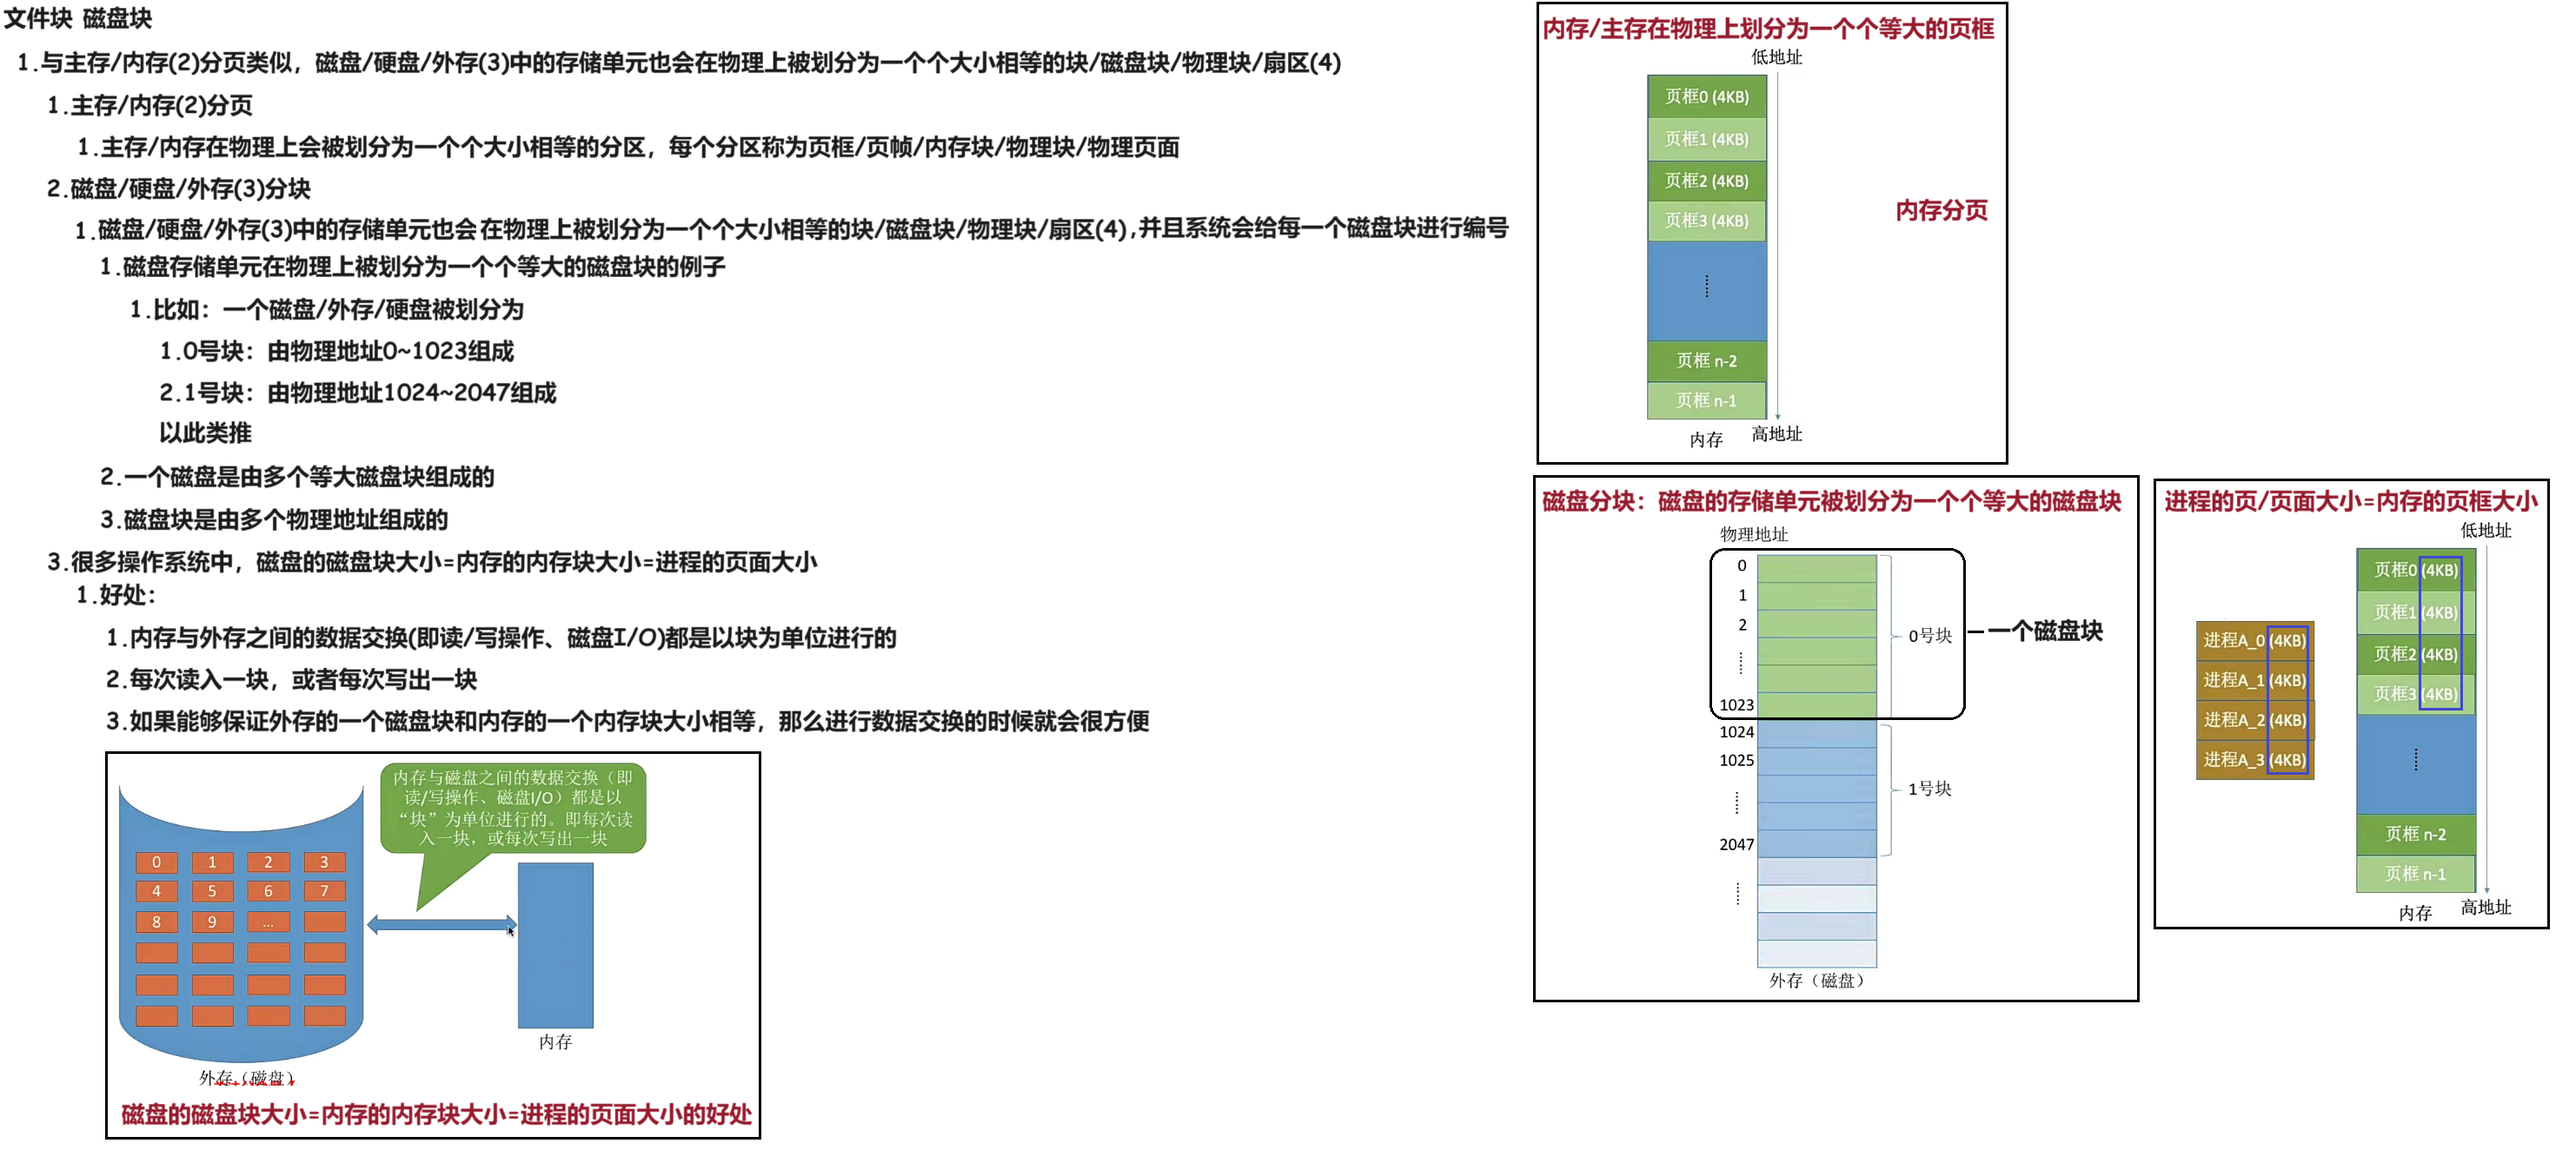
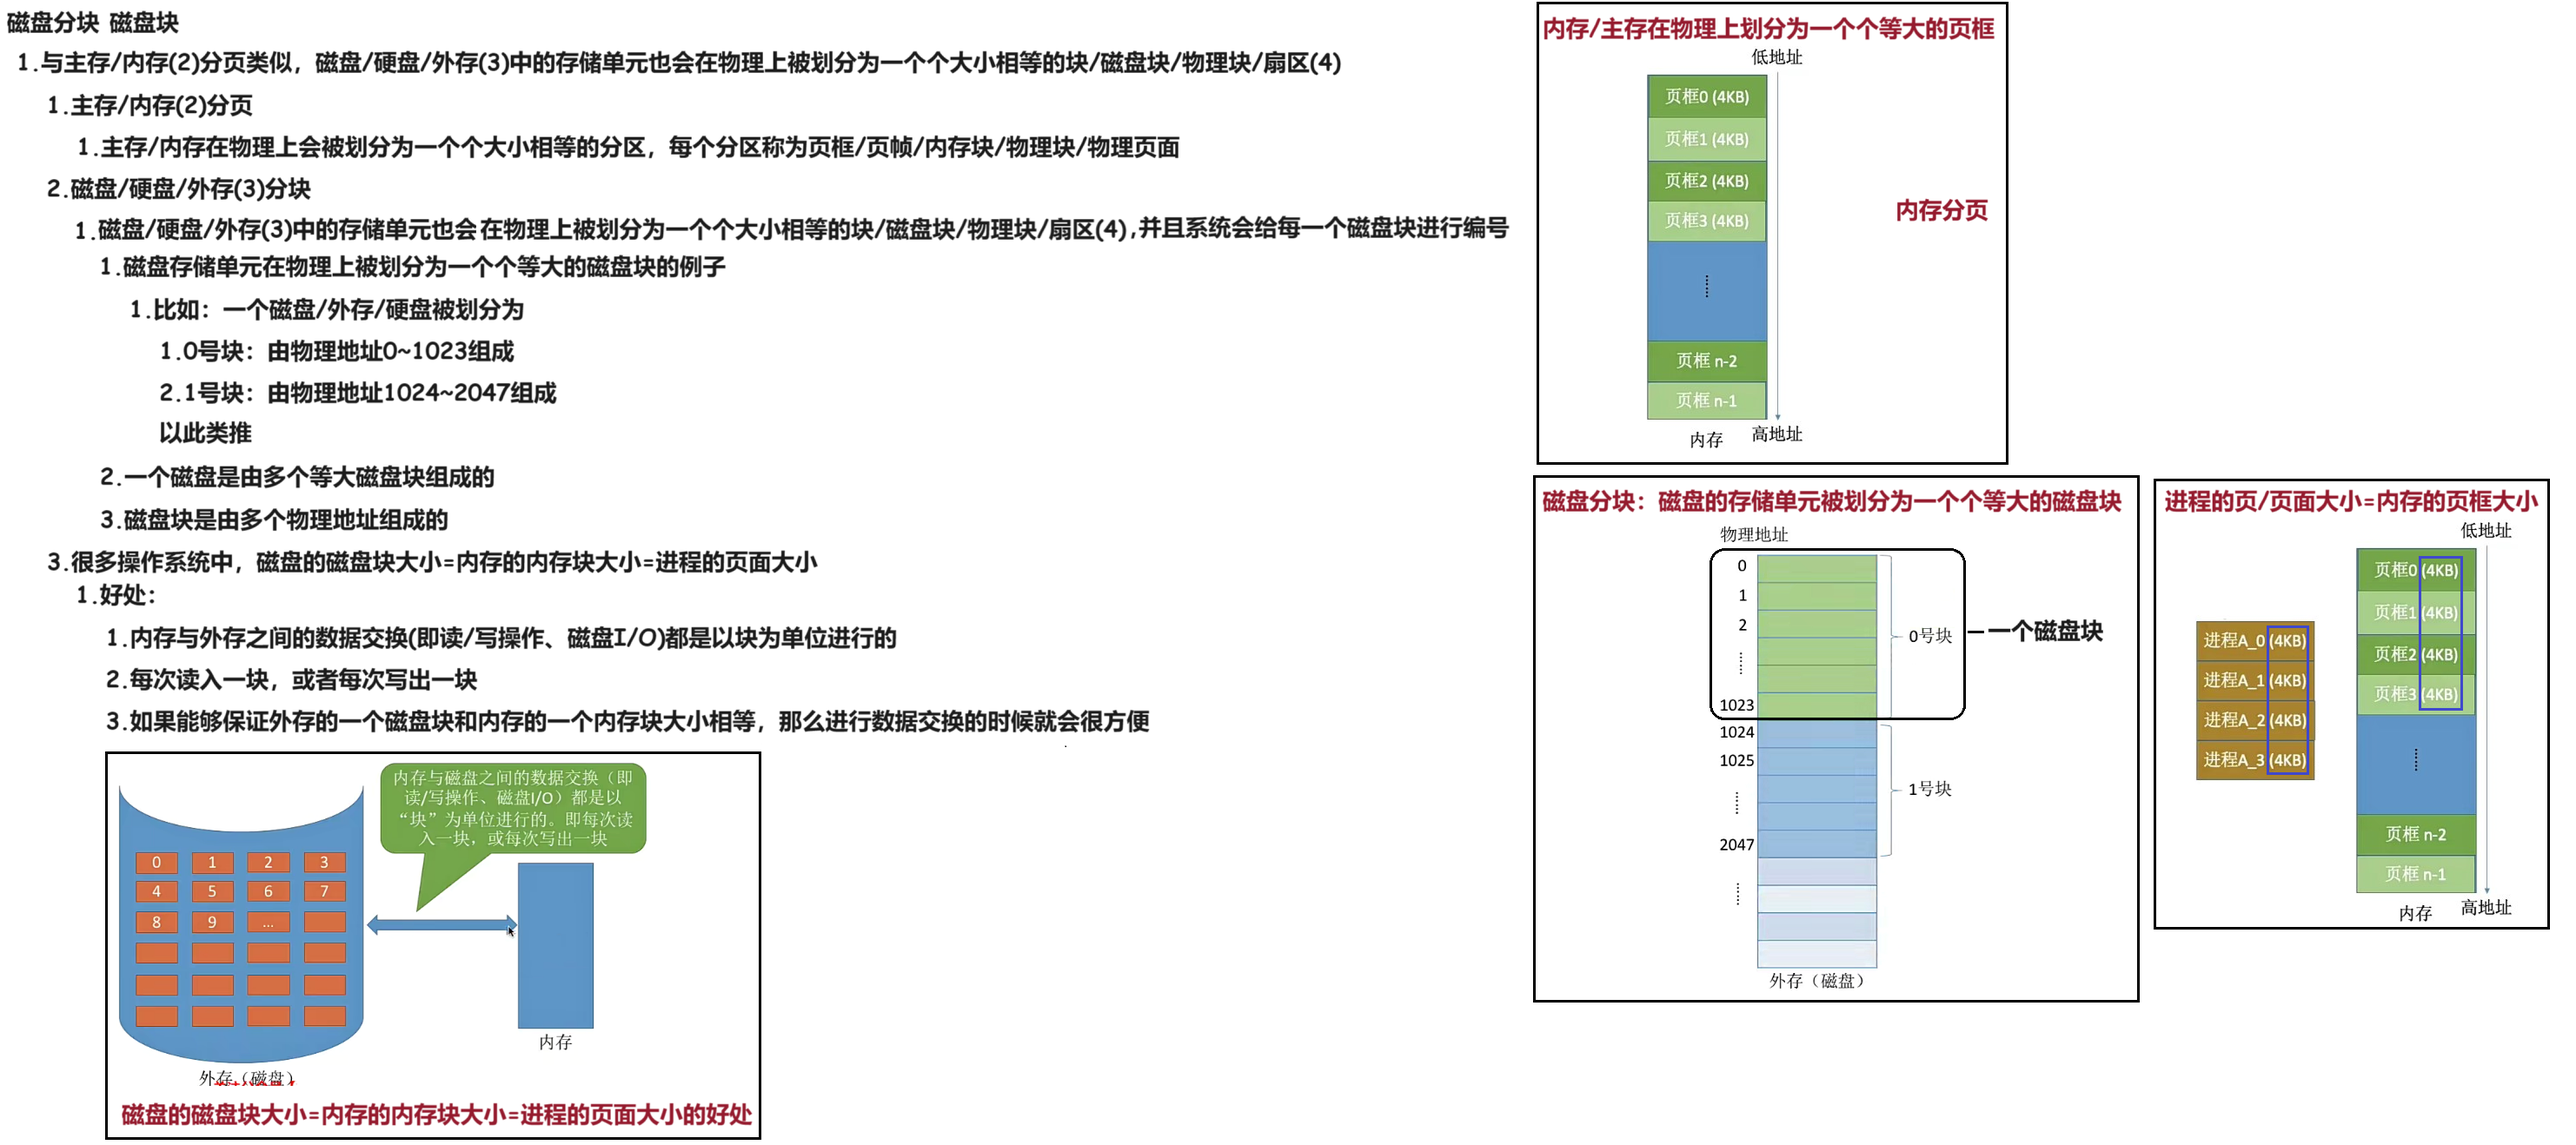
240221

diff --git a/01 OS/03 大题备考/04 第四章 文件系统大题/06 基础视频 文件的物理结构 文件的分配方式(上) ×/02 Doc.md b/01 OS/03 大题备考/04 第四章 文件系统大题/06 基础视频 文件的物理结构 文件的分配方式(上) ×/02 Doc.md
@@ -44,4 +44,16 @@
 
 #### 02 文件块 磁盘块
 
-<img src="https://cvp.oss-cn-shanghai.aliyuncs.com/picgo/202402211501777.png" alt="image-20240221150152398" style="zoom:50%;" />
+
+
+##### 01 磁盘分块 磁盘块
+
+<img src="https://cvp.oss-cn-shanghai.aliyuncs.com/picgo/202402212047454.png" alt="image-20240221204753246" style="zoom:50%;" />
+
+
+
+##### 02 磁盘的磁盘块大小=内存的内存块大小=进程的页面大小的好处
+
+<img src="https://cvp.oss-cn-shanghai.aliyuncs.com/picgo/202402212050179.png" alt="image-20240221205052058" style="zoom:50%;" />
+
+##### 03 文件逻辑地址分块 文件块

diff --git a/02 DS/02 题集/01 820/01 18/01 填空题/02 排序算法 时间复杂度 空间复杂度 稳定性 240213 ×/02 Doc.md b/02 DS/02 题集/01 820/01 18/01 填空题/02 排序算法 时间复杂度 空间复杂度 稳定性 240213 ×/02 Doc.md
@@ -2,6 +2,12 @@
 
 
 
+## 00 背诵
+
+<img src="https://cvp.oss-cn-shanghai.aliyuncs.com/picgo/202402211900919.png" alt="image-20240221190000745" style="zoom:50%;" />
+
+
+
 ## 01 题目
 
 <img src="https://cvp.oss-cn-shanghai.aliyuncs.com/picgo/202402131836190.png" alt="01 题目" style="zoom:50%;" />
@@ -10,5 +16,5 @@
 
 ## 02 视频解析
 
-<img src="https://cvp.oss-cn-shanghai.aliyuncs.com/picgo/202402211830453.png" alt="image-20240221183051313" style="zoom:50%;" />
+<img src="https://cvp.oss-cn-shanghai.aliyuncs.com/picgo/202402211859860.png" alt="image-20240221185911699" style="zoom:50%;" />
 
